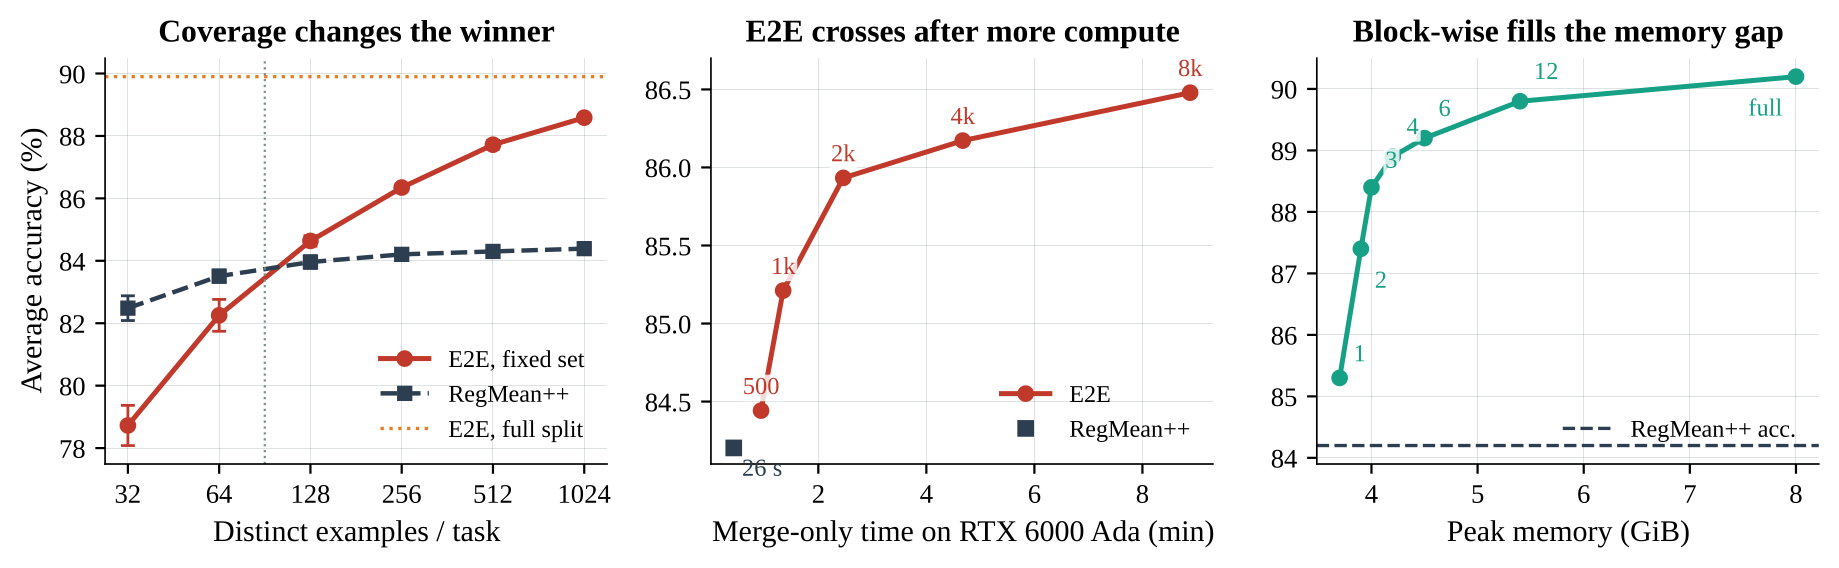
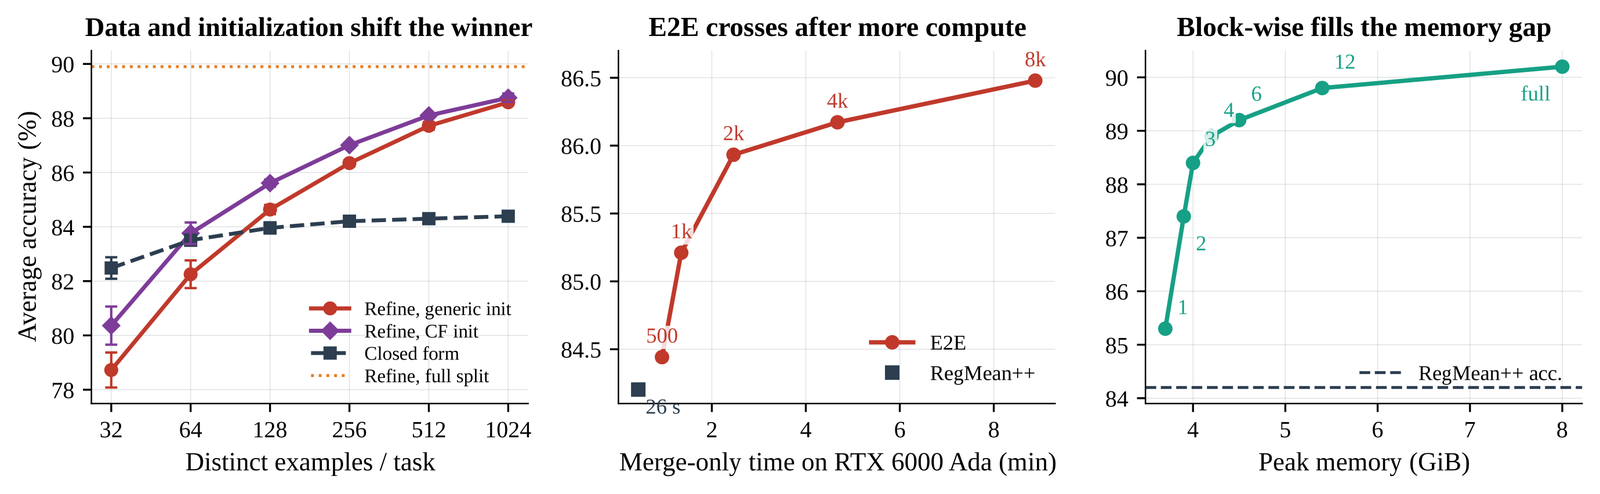
Update title to 'Model Consolidation: When Does Refinement Pay?' and refresh README figures

diff --git a/README.md b/README.md
@@ -2,7 +2,7 @@
 
 # Model Consolidation
 
-### When Does Refinement Pay? A Budgeted Functional View of Model Consolidation
+### When Does Refinement Pay?
 
 **Closed-form merging, Gauss–Newton, block-wise, and end-to-end refinement are budgeted
 approximations to one task-indexed functional objective. Exact local excess-loss formulas and a
@@ -190,7 +190,7 @@ FusionBench's own methods, run under the same pools.
 
 ```bibtex
 @article{gong2026consolidation,
-  title   = {When Does Refinement Pay? A Budgeted Functional View of Model Consolidation},
+  title   = {Model Consolidation: When Does Refinement Pay?},
   author  = {Gong, Zhiren and Wang, Tiantong and Zeng, Zihao and Duan, Yiyang and Xiao, Ming and Yuen, Chau and Lim, Wei Yang Bryan},
   journal = {Under review},
   year    = {2026}
